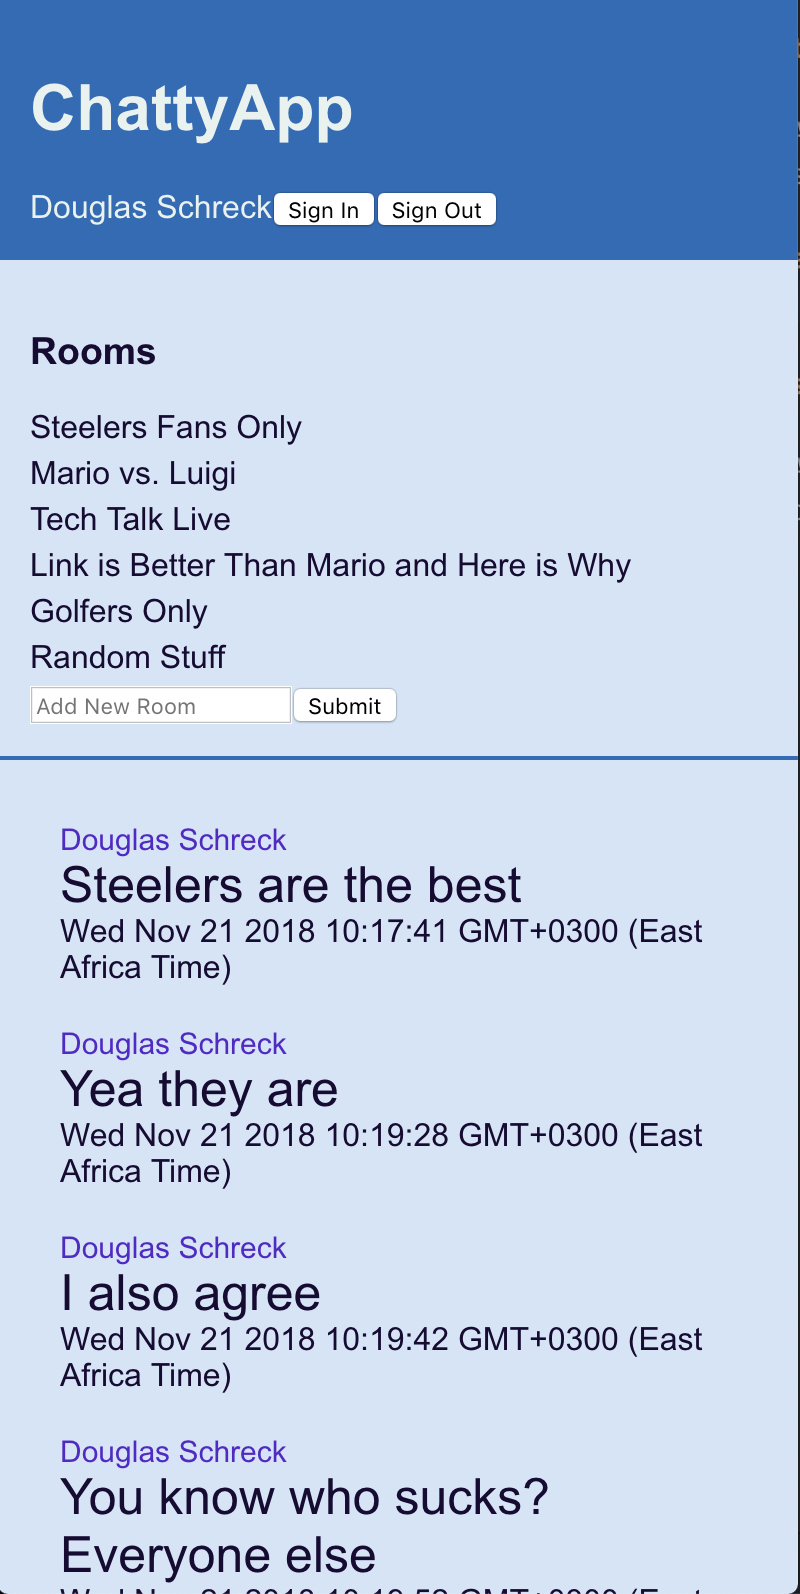
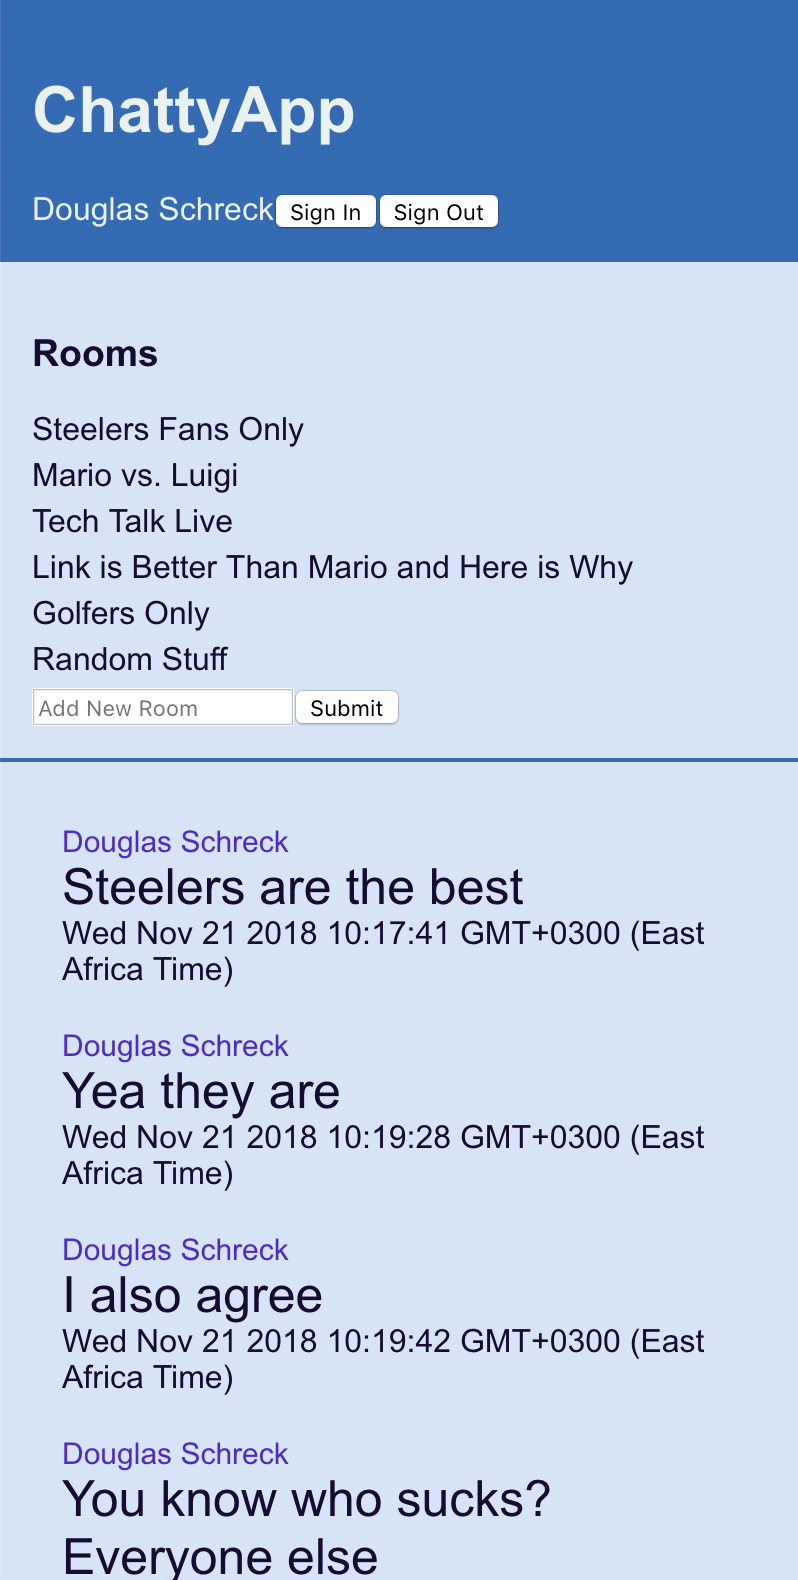
update readme

diff --git a/README.md b/README.md
@@ -9,7 +9,7 @@ ChattyApp is a fully responsive web app that allows you to chat with friends all
 
 **Mobile View**
 
-<img src="img/mobile-view.png">
+<img src="img/mobile-view.png" width="300">
 
 ## Technical
 
